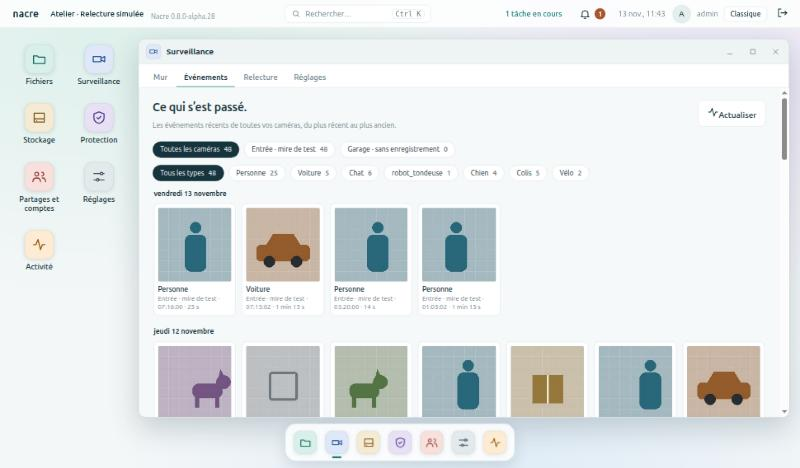
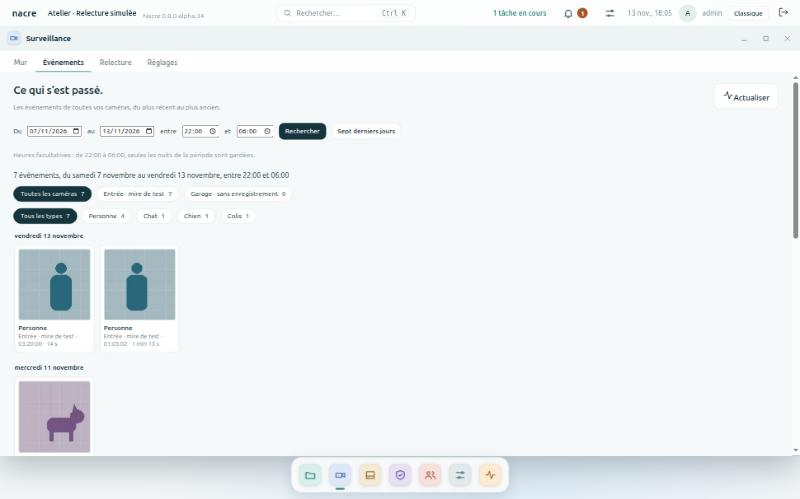
Période et tranche horaire dans l'onglet Événements (0.8.0-alpha.35) (#68)
L'onglet Événements de Surveillance, qui réunit toutes les caméras, reçoit
les champs de la recherche d'une caméra : période (sept derniers jours par
défaut) et tranche horaire facultative, envoyées à chaque caméra.

- résumé : nombre d'événements comptés par le serveur sur la période, pour
  l'ensemble des caméras lues
- « Sept derniers jours » revient à l'affichage d'origine
- une période refusée par le serveur pour toutes les caméras est expliquée
  une fois, formulaire gardé, sans accuser les caméras
- validation de la tranche mise en commun (searchHours, searchSpan) entre
  la carte d'une caméra et l'onglet

Aucun changement côté serveur, de schéma ni de module figé.
320 tests Python et 127 JavaScript.

diff --git a/console/static/surveillance.js b/console/static/surveillance.js
@@ -3,6 +3,8 @@
 // rangées en quatre vues. Mur en images fixes rafraîchies ; le direct n’est ouvert que pour la caméra agrandie.
 const SURV_REFRESH=10000,SURV_SHOWN=120;
 let survFocus=false,survTimer=null,survEvents=null,survCamera='',survLabel='',survPending=null,survRowsRequest=0;
+// Période et tranche horaire demandées dans l’onglet Événements ; null = les sept derniers jours, toute la journée.
+let survAsk=null;
 
 function survView(){return typeof deskViewOf==='function'?deskViewOf('cam'):'wall';}
 function survGo(view){deskSetView('cam',view);return renderCamera();}
@@ -44,9 +46,16 @@ async function survWall(cameras,add,current){
  survTick(current);
 }
 
-// Événements : les soixante plus récents de chaque caméra sur sept jours, fusionnés du plus récent au plus ancien.
+// Événements : les soixante plus récents de chaque caméra sur la période, fusionnés du plus récent au plus ancien.
+// Par défaut les sept derniers jours ; la période et la tranche horaire se choisissent comme dans la recherche d’une caméra.
+function survForm(data){
+ const today=data.today||searchToday(),to=survAsk?.to||data.to||today,from=survAsk?.from||data.from||searchShift(to,-6),hours=survAsk?.hours||null;
+ return `<div class="pb-go sr-form"><label for="surv-from">Du</label><input id="surv-from" type="date" value="${esc(from)}" max="${esc(today)}"><label for="surv-to">au</label><input id="surv-to" type="date" value="${esc(to)}" max="${esc(today)}"><label for="surv-after">entre</label><input id="surv-after" type="time" value="${esc(hours?.from||'')}" aria-describedby="surv-hours"><label for="surv-before">et</label><input id="surv-before" type="time" value="${esc(hours?.to||'')}" aria-describedby="surv-hours">${button('surv-search','Rechercher',null,'primary small')}${survAsk?button('surv-reset','Sept derniers jours',null,'small'):''}</div>`+
+  '<p class="capacity-note" id="surv-hours">Heures facultatives : de 22:00 à 06:00, seules les nuits de la période sont gardées.</p>';
+}
 function survEventsHtml(data=survEvents){
  if(!data)return '';
+ if(data.refused)return survForm(data)+`<div class="notice neutral">${esc(data.refused)}</div>`;
  const all=data.items,labels=[...new Set(all.map(e=>e.label))],shown=all.filter(e=>(!survCamera||e.camera===survCamera)&&(!survLabel||e.label===survLabel));
  const chip=(kind,value,text,count)=>`<button type="button" class="pb-chip" data-action="surv-filter" data-kind="${kind}" data-value="${esc(value)}" aria-pressed="${(kind==='camera'?survCamera:survLabel)===value}">${esc(text)}<b>${count}</b></button>`;
  let previous='';
@@ -55,25 +64,34 @@ function survEventsHtml(data=survEvents){
   const meta=[pbClock(e.start),e.ongoing?'en cours':pbDuration(e.end-e.start)].join(' · ');
   return head+`<button type="button" class="pb-event" data-action="surv-open" data-camera="${esc(e.camera)}" data-day="${esc(e.day)}" data-start="${e.start}" data-end="${e.end}"${e.recorded===false?' disabled':''}><img class="pb-thumb" src="/api/camera/event-thumbnail?camera=${encodeURIComponent(e.camera)}&id=${encodeURIComponent(e.id)}" alt="" loading="lazy" width="175" height="175"><strong>${esc(pbLabel(e.label)+(e.sub_label?' · '+e.sub_label:''))}</strong><span>${esc(e.name)} · ${esc(meta)}</span>${e.recorded===false?'<em>Vidéo non conservée</em>':''}</button>`;
  }).join('');
- return (data.failed.length?`<div class="notice neutral">Événements indisponibles pour ${data.failed.map(esc).join(', ')}. Les autres caméras sont listées.</div>`:'')+
+ const none=all.length?'Aucun événement pour ces filtres.':data.hours?'Aucun événement dans cette tranche horaire sur cette période.':survAsk?'Aucun événement sur cette période.':'Aucun événement sur les sept derniers jours.';
+ return survForm(data)+
+  (data.from?`<p class="pb-summary" id="surv-summary" role="status">${esc(searchPlural(data.total)+(data.more?' parmi les plus récents':'')+', '+searchPeriod(data))}</p>`:'')+
+  (data.failed.length?`<div class="notice neutral">Événements indisponibles pour ${data.failed.map(esc).join(', ')}. Les autres caméras sont listées.</div>`:'')+
   `<div class="pb-filter" role="group" aria-label="Filtrer par caméra">${chip('camera','','Toutes les caméras',all.length)}${data.cameras.map(c=>chip('camera',c.id,c.name,all.filter(e=>e.camera===c.id).length)).join('')}</div>`+
   (labels.length>1?`<div class="pb-filter" role="group" aria-label="Filtrer par type">${chip('label','','Tous les types',all.length)}${labels.map(l=>chip('label',l,pbLabel(l),all.filter(e=>e.label===l).length)).join('')}</div>`:'')+
-  (shown.length?`<div class="pb-events sv-events">${list}</div>`:empty(all.length?'Aucun événement pour ces filtres.':'Aucun événement sur les sept derniers jours.','camera'))+
-  `<p class="capacity-note">Les soixante événements les plus récents de chaque caméra sur sept jours${shown.length>SURV_SHOWN?`, ${SURV_SHOWN} affichés`:''}. Pour remonter plus loin ou choisir une période, utilisez la recherche de l’onglet Relecture. Les événements proviennent du suivi d’objets de Frigate ; ils ne sont ni exhaustifs ni une alarme.</p>`;
+  (shown.length?`<div class="pb-events sv-events">${list}</div>`:empty(none,'camera'))+
+  `<p class="capacity-note">Les soixante événements les plus récents de chaque caméra sur cette période${shown.length>SURV_SHOWN?`, ${SURV_SHOWN} affichés`:''} ; les pastilles comptent ceux qui sont listés. Pour remonter plus loin, utilisez la recherche de l’onglet Relecture. Les événements proviennent du suivi d’objets de Frigate ; ils ne sont ni exhaustifs ni une alarme.</p>`;
 }
 async function survEventsView(cameras,current){
  cameraDetail=false;
- $('#content').innerHTML=heading('Ce qui s’est passé.','Les événements récents de toutes vos caméras, du plus récent au plus ancien.',button('surv-refresh','Actualiser','activity'))+'<div id="surv-events"><p role="status">Recherche des événements…</p></div>';
- const results=await Promise.allSettled(cameras.map(c=>api('camera/search?camera='+encodeURIComponent(c.id))));
+ $('#content').innerHTML=heading('Ce qui s’est passé.','Les événements de toutes vos caméras, du plus récent au plus ancien.',button('surv-refresh','Actualiser','activity'))+'<div id="surv-events"><p role="status">Recherche des événements…</p></div>';
+ const span=survAsk?searchSpan(survAsk.from,survAsk.to,survAsk.hours):'';
+ const results=await Promise.allSettled(cameras.map(c=>api('camera/search?camera='+encodeURIComponent(c.id)+span)));
  if(!current())return;
- const items=[],failed=[];
+ const items=[],failed=[],known={cameras:cameras.map(c=>({id:c.id,name:c.name}))};
+ // Une demande que le serveur refuse pour toutes les caméras (période hors limites) s’explique au lieu d’accuser les caméras.
+ const refusal=results.every(r=>r.status==='rejected'&&r.reason?.status===400)?results[0]?.reason?.message:'';
+ if(refusal){survEvents={...known,items,failed,refused:String(refusal)};const box=$('#surv-events');if(box)box.innerHTML=survEventsHtml();return;}
+ let total=0,more=false,first=null;
  results.forEach((result,index)=>{
   const camera=cameras[index],data=result.status==='fulfilled'?searchValid(result.value):null;
   if(!data)return failed.push(camera.name);
+  first=first||data;total+=data.facets?data.facets.total:data.events.length;more=more||!!data.facets?.more;
   for(const event of data.events)items.push({...event,camera:camera.id,name:camera.name});
  });
  items.sort((a,b)=>b.start-a.start);
- survEvents={items,failed,cameras:cameras.map(c=>({id:c.id,name:c.name}))};
+ survEvents={...known,items,failed,total,more,from:first?.from||'',to:first?.to||'',today:first?.today||'',hours:first?.hours||null};
  if(!cameras.some(c=>c.id===survCamera))survCamera='';
  if(!items.some(e=>e.label===survLabel))survLabel='';
  const box=$('#surv-events');if(box)box.innerHTML=survEventsHtml();
@@ -151,6 +169,15 @@ document.addEventListener('click',async e=>{
    case 'surv-focus':if(!known(el.dataset.camera))return;survFocus=!(survFocus&&selectedCamera===el.dataset.camera);selectedCamera=el.dataset.camera;return await renderCamera();
    case 'surv-replay':if(!known(el.dataset.camera))return;selectedCamera=el.dataset.camera;return await survGo('replay');
    case 'surv-filter':if(el.dataset.kind==='camera')survCamera=el.dataset.value||'';else survLabel=el.dataset.value||'';{const box=$('#surv-events');if(box)box.innerHTML=survEventsHtml();}return;
+   case 'surv-search':{
+    const from=$('#surv-from')?.value,to=$('#surv-to')?.value;
+    if(!from||!to)return toast('Indiquez le début et la fin de la période.',true);
+    if(from>to)return toast('Le début de la période suit sa fin.',true);
+    const hours=searchHours($('#surv-after')?.value||'',$('#surv-before')?.value||'');
+    if(hours===false)return;
+    survAsk={from,to,hours};return await renderCamera();
+   }
+   case 'surv-reset':survAsk=null;return await renderCamera();
    case 'surv-open':if(!known(el.dataset.camera))return;selectedCamera=el.dataset.camera;survPending={day:el.dataset.day,start:Number(el.dataset.start),end:Number(el.dataset.end)};return await survGo('replay');
    case 'surv-seek':{
     if(!known(el.dataset.camera))return;

diff --git a/tests/test_frontend.js b/tests/test_frontend.js
@@ -1388,6 +1388,49 @@ test('enlarging a camera opens its live view alone, and unknown cameras or late 
  g.run('selectedCamera="entry";survFocus=true;');const pending=g.run('renderCamera()');await new Promise(resolve=>setImmediate(resolve));g.run('deskSetView("cam","events");$("#content").innerHTML="autre vue";');release();await pending;
  assert.equal(g.content(),'autre vue');
 });
+test('events tab takes a period and a time slot for every camera, sums what the server counted and explains a refusal',async()=>{
+ const calls=[],toasts=[],state={refuse:false};
+ const sample=(url,extra={})=>({...JSON.parse(JSON.stringify(searchSample)),hours:url.includes('time_from')?{from:'22:00',to:'06:00'}:null,...(url.includes('from=2026-11-01')?{from:'2026-11-01',to:'2026-11-05'}:{}),...extra});
+ const f=survFixture(async url=>{calls.push(url);
+  if(url==='/api/cameras')return response(200,survCameras);
+  if(!url.startsWith('/api/camera/search'))return response(200,overviewSample);
+  if(state.refuse)return response(400,{error:'Date hors de la période consultable.'});
+  if(url.includes('camera=garage'))return response(500,{error:'Indisponible.'});
+  return response(200,url.includes('camera=entry')?sample(url):sample(url,{camera:'x',events:[],facets:{total:4,matched:4,more:url.includes('camera=yard'),types:[],days:[]}}));});
+ f.context.toast=(text,bad)=>toasts.push([text,!!bad]);
+ const searches=()=>calls.filter(u=>u.startsWith('/api/camera/search')).sort(),html=()=>String(f.elements.get('#surv-events')?.innerHTML??f.run('survEventsHtml()'));
+ f.run('deskSetView("cam","events");');await f.run('renderCamera()');
+ // Par défaut : aucune période envoyée, formulaire prérempli par la réponse, total additionné sur les caméras lues.
+ assert.deepEqual(searches(),['entry','garage','pause','yard'].map(id=>'/api/camera/search?camera='+id));
+ let page=f.run('survEventsHtml()');
+ assert.match(page,/id="surv-from" type="date" value="2026-11-03" max="2026-11-09"/);assert.match(page,/id="surv-to" type="date" value="2026-11-09" max="2026-11-09"/);assert.match(page,/id="surv-after" type="time" value="" aria-describedby="surv-hours"/);
+ assert.match(page,/id="surv-summary" role="status">17 événements parmi les plus récents, du mardi 3 novembre au lundi 9 novembre</);assert.doesNotMatch(page,/surv-reset|style=/);assert.match(page,/Événements indisponibles pour Garage/);
+ // Saisies refusées sur place : aucune requête.
+ const fields={from:{value:'2026-11-05'},to:{value:'2026-11-01'},after:{value:''},before:{value:''}};for(const [key,el] of Object.entries(fields))f.elements.set('#surv-'+key,el);
+ const before=calls.length;
+ await f.act('surv-search');assert.match(toasts.at(-1)[0],/début de la période suit sa fin/);
+ fields.from.value='2026-11-01';fields.to.value='2026-11-05';fields.after.value='22:00';await f.act('surv-search');assert.match(toasts.at(-1)[0],/début et la fin de la tranche/);
+ fields.before.value='22:00';await f.act('surv-search');assert.match(toasts.at(-1)[0],/identiques/);
+ fields.from.value='';await f.act('surv-search');assert.match(toasts.at(-1)[0],/début et la fin de la période/);
+ assert.equal(calls.length,before);assert.equal(f.run('survAsk'),null);
+ // Période et tranche valides : envoyées à chaque caméra, reprises dans le formulaire et le résumé.
+ fields.from.value='2026-11-01';fields.before.value='06:00';calls.length=0;await f.act('surv-search');
+ assert.deepEqual(searches(),['entry','garage','pause','yard'].map(id=>`/api/camera/search?camera=${id}&from=2026-11-01&to=2026-11-05&time_from=22%3A00&time_to=06%3A00`));
+ page=f.run('survEventsHtml()');
+ assert.match(page,/id="surv-from" type="date" value="2026-11-01"/);assert.match(page,/id="surv-after" type="time" value="22:00"/);assert.match(page,/id="surv-before" type="time" value="06:00"/);
+ assert.match(page,/17 événements parmi les plus récents, du dimanche 1 novembre au jeudi 5 novembre, entre 22:00 et 06:00/);assert.match(page,/data-action="surv-reset" ><span>Sept derniers jours/);
+ assert.equal((page.match(/data-action="surv-open"/g)||[]).length,searchSample.events.length);
+ // Sans événement : le message dit la tranche. Les filtres en place ne relancent rien.
+ f.run('survEvents.items=[];');assert.match(f.run('survEventsHtml()'),/Aucun événement dans cette tranche horaire sur cette période\./);
+ f.run('survEvents.hours=null;');assert.match(f.run('survEventsHtml()'),/Aucun événement sur cette période\./);
+ // Refus du serveur pour toutes les caméras : expliqué une fois, formulaire gardé pour corriger, caméras non accusées.
+ state.refuse=true;await f.act('surv-search');page=f.run('survEventsHtml()');
+ assert.match(page,/<div class="notice neutral">Date hors de la période consultable\.<\/div>/);assert.match(page,/id="surv-from" type="date" value="2026-11-01"/);assert.doesNotMatch(page,/indisponibles pour|pb-chip|surv-summary/);
+ // Retour aux sept derniers jours : plus rien n'est envoyé.
+ state.refuse=false;calls.length=0;await f.act('surv-reset');
+ assert.deepEqual(searches(),['entry','garage','pause','yard'].map(id=>'/api/camera/search?camera='+id));assert.equal(f.run('survAsk'),null);assert.doesNotMatch(f.run('survEventsHtml()'),/surv-reset/);
+ f.run('survEvents.items=[];');assert.match(f.run('survEventsHtml()'),/Aucun événement sur les sept derniers jours\./);
+});
 test('events of every camera merge newest first, filter in place and open the replay at the event',async()=>{
  const calls=[],f=survFixture(survReply(calls));f.run('deskSetView("cam","events");');await f.run('renderCamera()');
  assert.deepEqual(calls.filter(u=>u.startsWith('/api/camera/search')).sort(),['entry','garage','pause','yard'].map(id=>'/api/camera/search?camera='+id));

diff --git a/console/static/search.js b/console/static/search.js
@@ -13,6 +13,16 @@ function searchValid(d){
  return d;
 }
 function searchClock(v){return typeof v==='string'&&/^([01]\d|2[0-3]):[0-5]\d$/.test(v);}
+// Tranche saisie : null pour toute la journée, la tranche si elle est valide, false après un message sinon.
+function searchHours(after,until){
+ if(!after&&!until)return null;
+ if(!after!==!until){toast('Indiquez le début et la fin de la tranche horaire, ou laissez les deux vides.',true);return false;}
+ if(!searchClock(after)||!searchClock(until)){toast('Tranche horaire illisible. Format attendu : 22:00.',true);return false;}
+ if(after===until){toast('Le début et la fin de la tranche horaire sont identiques.',true);return false;}
+ return {from:after,to:until};
+}
+// Période et tranche, telles que la recherche du serveur les attend.
+function searchSpan(from,to,hours){return '&from='+encodeURIComponent(from)+'&to='+encodeURIComponent(to)+(hours?'&time_from='+encodeURIComponent(hours.from)+'&time_to='+encodeURIComponent(hours.to):'');}
 function searchToday(){return playbackData?.today||new Date().toLocaleDateString('en-CA',{timeZone:pbZone()});}
 function searchShift(day,n){const [y,m,d]=day.split('-').map(Number);return new Date(Date.UTC(y,m-1,d+n)).toISOString().slice(0,10);}
 function searchPlural(n){return `${n} événement${n>1?'s':''}`;}
@@ -75,11 +85,9 @@ document.addEventListener('click',async e=>{
     const from=$('#search-from')?.value,to=$('#search-to')?.value;
     if(!from||!to)return toast('Indiquez le début et la fin de la période.',true);
     if(from>to)return toast('Le début de la période suit sa fin.',true);
-    const after=$('#search-after')?.value||'',until=$('#search-before')?.value||'';
-    if(!after!==!until)return toast('Indiquez le début et la fin de la tranche horaire, ou laissez les deux vides.',true);
-    if(after&&(!searchClock(after)||!searchClock(until)))return toast('Tranche horaire illisible. Format attendu : 22:00.',true);
-    if(after&&after===until)return toast('Le début et la fin de la tranche horaire sont identiques.',true);
-    const hours=after?{from:after,to:until}:null,same=d&&d.from===from&&d.to===to&&(d.hours?.from||'')===after&&(d.hours?.to||'')===until;
+    const after=$('#search-after')?.value||'',until=$('#search-before')?.value||'',hours=searchHours(after,until);
+    if(hours===false)return;
+    const same=d&&d.from===from&&d.to===to&&(d.hours?.from||'')===after&&(d.hours?.to||'')===until;
     return await searchLoad(from,to,same?d.label:'',null,hours);
    }
    case 'search-filter':if(d)await searchLoad(d.from,d.to,el.dataset.label||'',null,d.hours||null);return;

diff --git a/docs/REPRISE.md b/docs/REPRISE.md
@@ -4,9 +4,9 @@ Point d’entrée pour reprendre le développement sans relire tout l’historiq
 
 ## État livré
 
-- **Version courante : 0.8.0-alpha.34** — [recherche d’événements par tranche horaire](RECORDING-PLAYBACK.md#ne-garder-quune-tranche-horaire) dans la carte Recherche d’événements d’une caméra.
-- Versions précédentes : 0.8.0-alpha.33 — [recherche de fichiers par nom](DESKTOP.md#rechercher-un-fichier-par-son-nom), depuis Fichiers et depuis Ctrl+K ; 0.8.0-alpha.32 — [bureau personnalisable](DESKTOP.md#personnaliser-le-bureau), dernier des sept lots du Bureau ; 0.8.0-alpha.31 — [plusieurs fenêtres](DESKTOP.md#plusieurs-fenêtres) ; 0.8.0-alpha.30 — [gestionnaire de fichiers](DESKTOP.md#fichiers) ; 0.8.0-alpha.29 — [Surveillance en application](DESKTOP.md#surveillance), après la coquille, la cloche et la recherche (alpha.26 à alpha.28).
-- Schéma SQLite inchangé depuis alpha.19. Aucun module figé modifié d’alpha.20 à alpha.34 : ces versions sont distribuables par paquet `.nacre-update`.
+- **Version courante : 0.8.0-alpha.35** — période et tranche horaire dans l’[onglet Événements](DESKTOP.md#surveillance) du bureau, pour toutes les caméras.
+- Versions précédentes : 0.8.0-alpha.34 — [recherche d’événements par tranche horaire](RECORDING-PLAYBACK.md#ne-garder-quune-tranche-horaire) dans la carte d’une caméra ; 0.8.0-alpha.33 — [recherche de fichiers par nom](DESKTOP.md#rechercher-un-fichier-par-son-nom), depuis Fichiers et depuis Ctrl+K ; 0.8.0-alpha.32 — [bureau personnalisable](DESKTOP.md#personnaliser-le-bureau), dernier des sept lots du Bureau ; 0.8.0-alpha.31 — [plusieurs fenêtres](DESKTOP.md#plusieurs-fenêtres) ; 0.8.0-alpha.30 — [gestionnaire de fichiers](DESKTOP.md#fichiers) ; 0.8.0-alpha.29 — [Surveillance en application](DESKTOP.md#surveillance), après la coquille, la cloche et la recherche (alpha.26 à alpha.28).
+- Schéma SQLite inchangé depuis alpha.19. Aucun module figé modifié d’alpha.20 à alpha.35 : ces versions sont distribuables par paquet `.nacre-update`.
 - Installation de développement : alpha.34 installée le 13 novembre 2026 par paquet signé (732 événements réels sur sept jours, dont 66 entre 22:00 et 06:00 ; heures en UTC tant que le fuseau n’y est pas choisi), après alpha.29 à alpha.33 le même jour (la recherche de fichiers par nom y parcourt 11 408 éléments en 0,15 seconde) ; le Bureau y est l’affichage par défaut. Le bandeau du fuseau y attend toujours le choix de l’administrateur. Auparavant : alpha.25 le même jour, alpha.24 le 12 novembre au soir, après alpha.21 à alpha.23 le même jour et alpha.20 la veille. La purge s’y est appliquée seule : trois copies de retour arrière restent sur cinq. La recherche y a lu les 532 événements réels de la caméra en neuf pages et ouvert un résultat ancien dans la relecture. La carte Détection y a été éprouvée (ajout puis retrait d’un type, sans redémarrage) ; les types suivis y sont revenus aux seules personnes. Le détail et les mises à jour suivantes sont consignés dans [Déploiements](SPARK-DEPLOYMENT.md) ; vérifier la version réellement installée avant d’agir.
 
 ## Reprendre en cinq minutes
@@ -40,7 +40,7 @@ Point d’entrée pour reprendre le développement sans relire tout l’historiq
 ## Limites ouvertes
 
 - Fuseau : noms IANA non traduits ; un seul fuseau pour toute la console, pas de fuseau par compte.
-- Surveillance : recherche limitée à une caméra, au type d’objet et à une tranche horaire appliquée par Nacre (`slot()` dans `playback.py`, jamais transmise à Frigate) ; pas de nom reconnu ; l’onglet Événements du bureau n’a pas la tranche horaire ; pas de filtre par zone, d’export long ni de lecture multi-caméra synchronisée ; une seule caméra réelle observée ; pas de réglage des seuils, zones et masques de détection.
+- Surveillance : recherche limitée à une caméra, au type d’objet et à une tranche horaire appliquée par Nacre (`slot()` dans `playback.py`, jamais transmise à Frigate) ; pas de nom reconnu  ; l’onglet Événements du bureau envoie la même période et la même tranche à chaque caméra (`survAsk` dans `surveillance.js`, validation commune `searchHours`) et ne liste que la première page de chacune ; pas de filtre par zone, d’export long ni de lecture multi-caméra synchronisée ; une seule caméra réelle observée ; pas de réglage des seuils, zones et masques de détection.
 - Mises à jour : pas de migration de schéma réversible, de rotation de la clé de confiance ni de mise à jour des composants ; nombre de copies conservées fixe (trois), pas de retour à une copie depuis le navigateur après validation.
 - Stockage : pas de programmation des snapshots natifs ([issue 4](https://github.com/Tarzzan/nacre/issues/4)) ; opérations privilégiées validées en VM seulement.
 - Administration : pas de MFA ; accès à Docker encore large ([issue 2](https://github.com/Tarzzan/nacre/issues/2)).
@@ -55,7 +55,7 @@ Point d’entrée pour reprendre le développement sans relire tout l’historiq
 Cap validé le 13 novembre 2026 : faire de l’interface un **bureau dans le navigateur**, en sept lots livrables par paquet, une release par lot. Les sept lots sont faits, d’alpha.26 à alpha.32 : coquille, centre de notifications, recherche globale, Surveillance, gestionnaire de fichiers, plusieurs fenêtres, bureau personnalisable. Le cap est atteint, et la recherche de fichiers par nom l’a prolongé en alpha.33 ; la suite se choisit parmi les étapes ci-dessous et les limites ouvertes. Chaque choix d’apparence passe par une maquette validée avant le code. Les étapes ci-dessous restent valables et s’y insèrent.
 
 1. **Programmation des snapshots natifs** avec simulation de rétention (issue 4). Modules natifs figés : campagne en VM et installation accompagnée.
-2. **Tranche horaire et période dans l’onglet Événements du bureau** (toutes les caméras) : la recherche serveur les accepte déjà, il reste l’interface ; distribuable par paquet. Utile surtout à partir de deux caméras.
-3. **Filtres de la recherche de fichiers** (type, date, taille) : complète alpha.33 sans index, distribuable par paquet.
+2. **Filtres de la recherche de fichiers** (type, date, taille) : complète alpha.33 sans index, distribuable par paquet.
+3. **Suite des événements dans l’onglet Événements du bureau** (au-delà des soixante par caméra) : la recherche serveur pagine déjà, il reste à fusionner les pages de plusieurs caméras ; distribuable par paquet.
 
 Le premier lève une limite structurante mais demande une installation accompagnée ; les deux autres restent livrables par le navigateur.

diff --git a/docs/DESKTOP.md b/docs/DESKTOP.md
@@ -144,19 +144,20 @@ Depuis la version 0.8.0-alpha.29, l’application Surveillance du bureau a quatr
 | Onglet | Ce qu’on y fait |
 | --- | --- |
 | **Mur** | Voir toutes les caméras d’un coup, avec leur état. Un clic agrandit une caméra : direct et pilotage pour elle seule. « Revenir au mur » la referme. |
-| **Événements** | Parcourir ce que toutes les caméras ont détecté sur sept jours, filtrer par caméra ou par type, ouvrir un événement dans la relecture. |
+| **Événements** | Parcourir ce que toutes les caméras ont détecté sur sept jours ou sur une période choisie, ne garder qu’une tranche horaire, filtrer par caméra ou par type, ouvrir un événement dans la relecture. |
 | **Relecture** | Choisir une caméra et un jour, lire depuis la frise. La frise commune, en dessous, montre le même jour pour chaque caméra. |
 | **Réglages** | Régler la détection et les types suivis, la durée de conservation et la connexion de la caméra choisie. |
 
 ![Événements de toutes les caméras](images/surveillance-events.jpg)
 
-*Banc local : vignettes synthétiques.*
+*Banc local : vignettes synthétiques, recherche limitée à la nuit.*
 
 Ce qu’il faut savoir :
 
 - **Le mur n’ouvre aucun direct.** Chaque caméra montre sa dernière image, redemandée toutes les dix secondes tant que l’onglet du navigateur est visible. Seule la caméra agrandie reçoit le flux en direct.
 - **Une image reçue ne prouve pas l’enregistrement.** La frise de l’onglet Relecture fait foi.
-- **Événements : les soixante plus récents par caméra sur sept jours.** Pour remonter plus loin ou choisir une période, la recherche de l’onglet Relecture reste l’outil.
+- **Événements : période et tranche horaire pour toutes les caméras** (depuis la version 0.8.0-alpha.35). **Du**, **au** et les deux heures facultatives **entre** et **et** s’appliquent à chaque caméra, avec les mêmes règles que la [recherche d’une caméra](RECORDING-PLAYBACK.md#ne-garder-quune-tranche-horaire) : de 22:00 à 06:00, seules les nuits sont gardées. **Sept derniers jours** revient à l’affichage d’origine.
+- **Événements : les soixante plus récents par caméra sont listés.** Le résumé donne le nombre compté sur la période pour toutes les caméras ; les pastilles comptent ce qui est listé. Pour remonter plus loin, la recherche de l’onglet Relecture reste l’outil.
 - **Frise commune : une seule caméra lue à la fois.** Cliquer sur la ligne d’une autre caméra change de caméra et lit à l’heure cliquée ; s’il n’y a rien à cette heure, la lecture reprend à la plage suivante et le dit.
 - **Si les événements d’une caméra sont indisponibles**, elle est nommée et les autres restent listées.
 - **Lecture seule** : tout est consultable ; l’ajout de caméra et les réglages sont réservés aux administrateurs.
@@ -229,6 +230,8 @@ Cinq essais JavaScript : coquille et repères attendus par les pages, onglets se
 Centre de notifications (alpha.27), cinq essais JavaScript : cloche à la place du bouton d’alertes et affichage classique intact ; compteurs, libellés et échappement de tout ce qui est listé ; page inconnue annoncée par le serveur renvoyée vers les alertes ; compte en lecture seule sans requête d’alertes ; annonce de fin de tâche, état conservé si une lecture échoue, réponses tardives et session expirée ; ouverture et fermetures du panneau. Sur le banc : alerte fictive prise en compte depuis le panneau, pastille retirée, panneau resté ouvert.
 
 Recherche globale (alpha.28), quatre essais JavaScript : index limité aux pages que le compte peut ouvrir, chaque réglage nommé rattaché à une page existante ; correspondance au début des mots sans accents ni casse, libellé le plus proche en tête, noms de caméras échappés ; clavier (ouverture, flèches, Entrée, Échap, rien derrière une boîte de dialogue) ; ouverture d’une caméra, d’un espace de fichiers ou de l’affichage classique, lectures en échec ou tardives sans effet. Sur le banc : Ctrl+K, « gar », Entrée ouvre la fiche de la caméra Garage.
+
+Événements par période et tranche horaire (alpha.35), un essai JavaScript : aucune période envoyée par défaut, formulaire prérempli par la réponse, total additionné sur les caméras lues ; période à l’envers, tranche incomplète ou identique refusées sans requête ; période et tranche envoyées à chaque caméra et reprises dans le résumé ; refus du serveur expliqué une fois sans accuser les caméras ; retour aux sept derniers jours. Sur le banc à deux caméras simulées : 50 événements par défaut, 7 entre 22:00 et 06:00, refus d’une tranche à moitié remplie et d’une date trop ancienne.
 
 Surveillance (alpha.29), cinq essais JavaScript : mur en images fixes sans aucun direct, noms échappés, page classique conservée ; caméra agrandie seule à recevoir le direct, caméras inconnues et réponses tardives sans effet ; événements fusionnés du plus récent au plus ancien, caméra en échec nommée, filtres sans nouvelle requête, ouverture de la relecture au bon événement ; une ligne de frise par caméra et lecture à l’heure cliquée ; réglages sans boutons pour la lecture seule. Sur le banc à deux caméras simulées : mur, agrandissement avec direct et pilotage, 48 événements synthétiques filtrés, ouverture d’un événement dans la relecture avec lecture de l’extrait, clic sur la ligne de l’autre caméra, onglet Réglages.
 

diff --git a/CHANGELOG.md b/CHANGELOG.md
@@ -1,5 +1,9 @@
 # Changelog
 
+## 0.8.0-alpha.35 — Période et tranche horaire dans l’onglet Événements
+
+L’onglet **Événements** de Surveillance, qui réunit toutes les caméras, reçoit les mêmes champs que la recherche d’une caméra : une **période** (les sept derniers jours par défaut) et une **tranche horaire** facultative. « Entre 22:00 et 06:00 » montre d’un coup ce que chaque caméra a vu la nuit. Un résumé donne le nombre d’événements comptés sur la période pour l’ensemble des caméras ; **Sept derniers jours** revient à l’affichage d’origine. Une période que le serveur refuse est expliquée une fois, sans mettre les caméras en cause. Aucun changement côté serveur, de schéma ni de module figé. 320 tests Python et 127 JavaScript. [Guide et limites](docs/DESKTOP.md#surveillance).
+
 ## 0.8.0-alpha.34 — Recherche d’événements par tranche horaire
 
 La carte **Recherche d’événements** d’une caméra accepte une **tranche horaire** facultative, appliquée à chaque jour de la période : « entre 22:00 et 06:00 » ne garde que les nuits, « entre 08:00 et 18:00 » les journées. Une tranche dont la fin précède le début enjambe minuit. Le total, les compteurs par type et par jour ne portent alors que sur la tranche ; le type choisi et **Afficher la suite** la conservent. C’est l’heure de début de l’événement, dans le fuseau de la console, qui décide. Le filtre est appliqué par Nacre : rien ne change dans les demandes faites au service vidéo. Aucun changement de schéma ni de module figé. 320 tests Python et 126 JavaScript. [Guide et limites](docs/RECORDING-PLAYBACK.md#ne-garder-quune-tranche-horaire).

diff --git a/docs/RECORDING-PLAYBACK.md b/docs/RECORDING-PLAYBACK.md
@@ -87,7 +87,7 @@ Au-delà de la durée de conservation continue, Frigate ne garde que certains pa
 - **Jour en cours.** La frise reflète l’inventaire au chargement. **Actualiser** relit les enregistrements récents.
 - **Période consultable.** Dates jusqu’à 400 jours en arrière pour la frise et la recherche, extraits jusqu’à 31 jours : la conservation réglable s’arrête à 30 jours.
 - **Comptes en lecture seule.** Ils consultent et téléchargent les extraits, comme ils consultaient déjà les clips. Les réglages et le pilotage restent réservés aux administrateurs.
-- **Non couvert.** Recherche par tranche horaire sur plusieurs caméras à la fois (l’onglet Événements du bureau n’a pas ce filtre), par nom reconnu, par jour de la semaine, filtre par zone ou par score, export de longues périodes, lecture synchronisée de plusieurs caméras, protection d’un passage contre la suppression et contrôle d’intégrité des fichiers vidéo.
+- **Non couvert.** Recherche par nom reconnu, par jour de la semaine, filtre par zone ou par score, export de longues périodes, lecture synchronisée de plusieurs caméras, protection d’un passage contre la suppression et contrôle d’intégrité des fichiers vidéo.
 
 ## Erreurs affichées
 

diff --git a/docs/ROADMAP.md b/docs/ROADMAP.md
@@ -26,7 +26,7 @@ Liste des copies de retour arrière dans la page Mises à jour, conservation aut
 
 ## Recherche d’événements 0.8.0-alpha.23
 
-Recherche des événements d’une caméra sur une période de jours, par type d’objet, avec ouverture du résultat dans la relecture. [Guide et limites](RECORDING-PLAYBACK.md#rechercher-sur-plusieurs-jours). La [tranche horaire](RECORDING-PLAYBACK.md#ne-garder-quune-tranche-horaire) est arrivée en alpha.34. Restent ouverts : recherche sur plusieurs caméras, par nom reconnu, filtre par zone.
+Recherche des événements d’une caméra sur une période de jours, par type d’objet, avec ouverture du résultat dans la relecture. [Guide et limites](RECORDING-PLAYBACK.md#rechercher-sur-plusieurs-jours). La [tranche horaire](RECORDING-PLAYBACK.md#ne-garder-quune-tranche-horaire) est arrivée en alpha.34, puis, avec la période, dans l’onglet Événements de toutes les caméras en alpha.35. Restent ouverts : recherche sur plusieurs caméras, par nom reconnu, filtre par zone.
 
 ## Détection et objets suivis 0.8.0-alpha.22
 

diff --git a/docs/VALIDATION.md b/docs/VALIDATION.md
@@ -1,5 +1,9 @@
 # Validation
 
+## Période et tranche horaire dans l’onglet Événements — 0.8.0-alpha.35
+
+320 tests Python et 127 JavaScript. Détail dans le [guide du Bureau](DESKTOP.md#validation).
+
 ## Recherche d’événements par tranche horaire — 0.8.0-alpha.34
 
 320 tests Python et 126 JavaScript. Détail dans le [guide de la relecture](RECORDING-PLAYBACK.md#validation).
